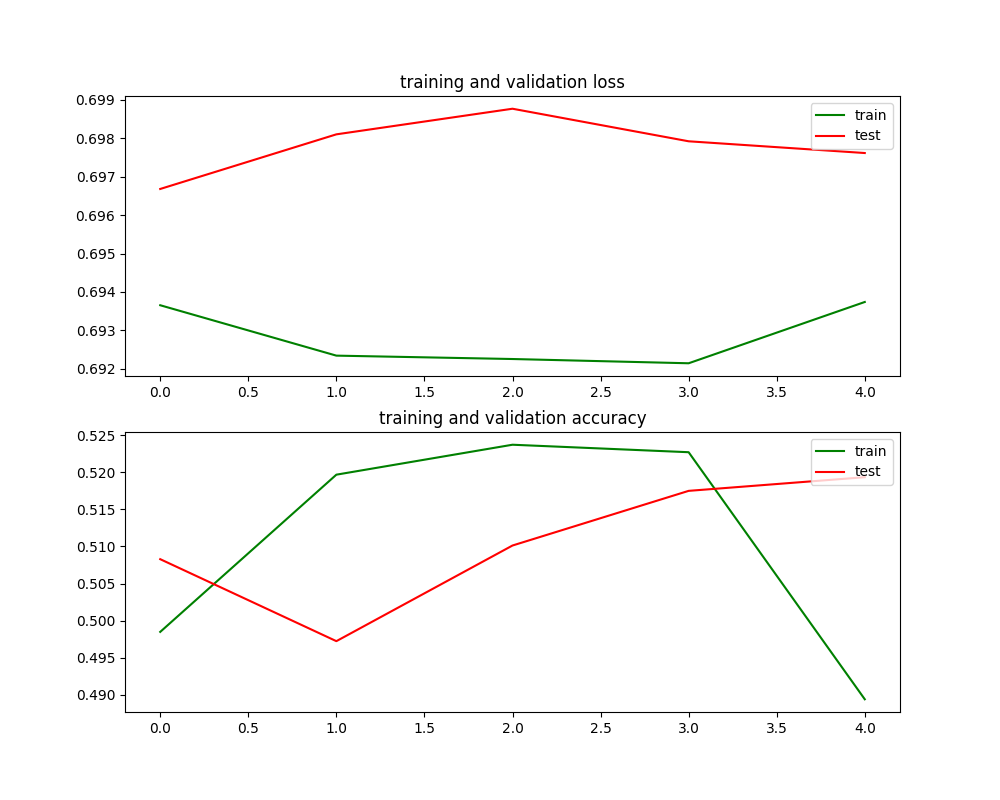
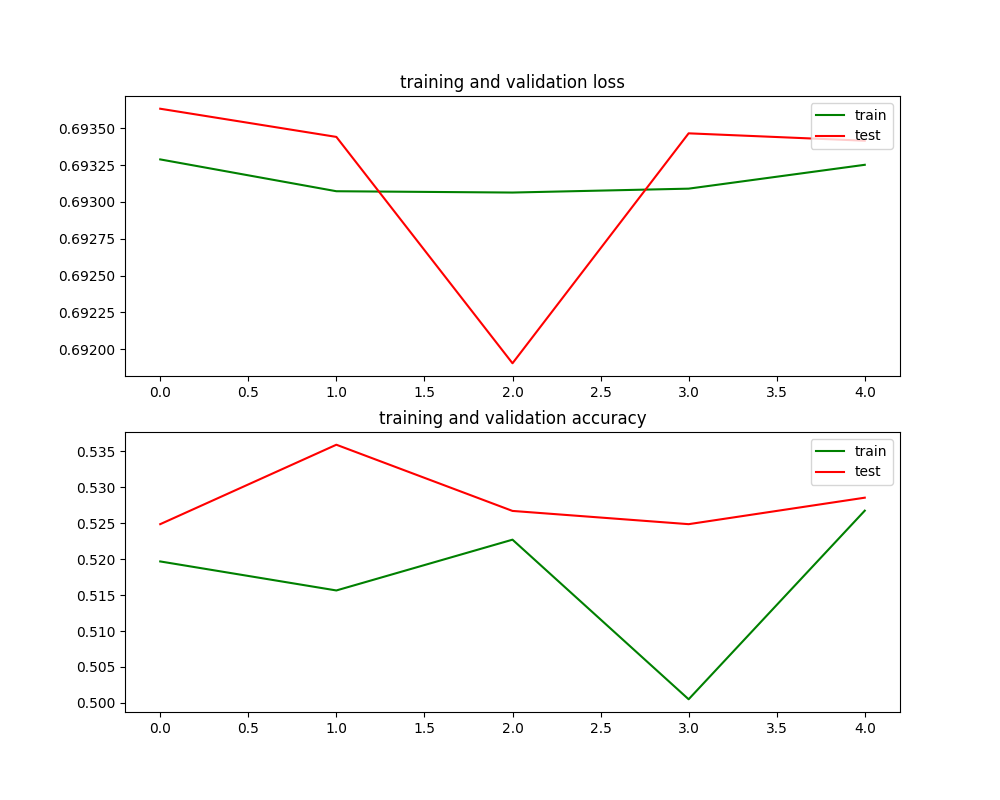
softmax

diff --git a/momentum/momentum.py b/momentum/momentum.py
@@ -115,8 +115,10 @@ def setCustomCallback():
     customCallback = tf.keras.callbacks.ModelCheckpoint(
         filepath=checkpointPath,
         # save_weights_only=True,
-        monitor='accuracy',
-        mode='min',
+        monitor='val_accuracy',
+        mode='max',
+        # monitor='val_min',
+        # mode='min',
         save_best_only=True)
 
 #get pandas dataframe of a stock
@@ -317,7 +319,7 @@ def saveModel(newFolderPath, bestModel):
 #saves pyplot to folder for later analysis
 def savePyPlot(results):
     print("[INFO] Saving Pyplot.")
-    fig = getLossGraph(results))
+    fig = getLossGraph(results)
     plt.savefig(f"{newFolderPath}/{intervalMomentum}_{intervalPeriod}_{daysAhead}_{version}.png")
 #saves all info to text file
 def saveParameters(newFolderPath, version):
@@ -396,7 +398,7 @@ class CNN():
         self.model.add(layers.Dense(120, activation = 'relu'))
         self.model.add(layers.Dense(60, activation = 'relu'))
         self.model.add(layers.Dense(20, activation = 'relu'))
-        self.model.add(layers.Dense(2))
+        self.model.add(layers.Dense(2, activation = 'softmax'))
 
         #lr=0.001, momentum=0.9
         self.optimizer = optimizers.SGD(lr=0.0001)
@@ -485,7 +487,7 @@ def loadData():
     print(f"target shape train: {len(trainY)}")
     print(f"target shape test: {len(testY)}")
 
-    print(trainY)
+    # print(trainY)
 
     saveDataSet(dataPath, trainX, trainY, testX, testY)
 
